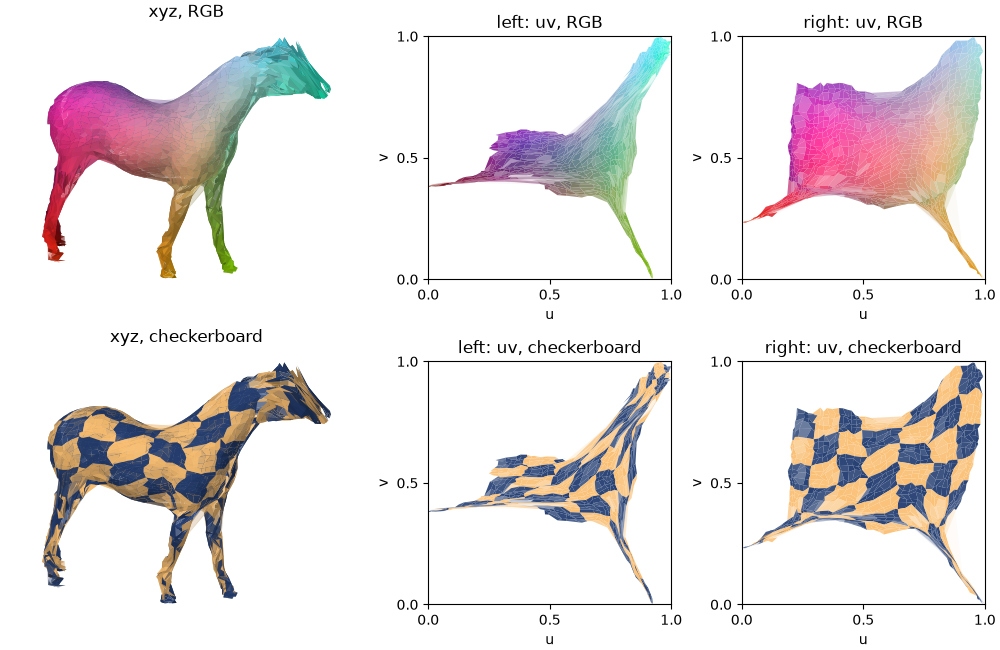
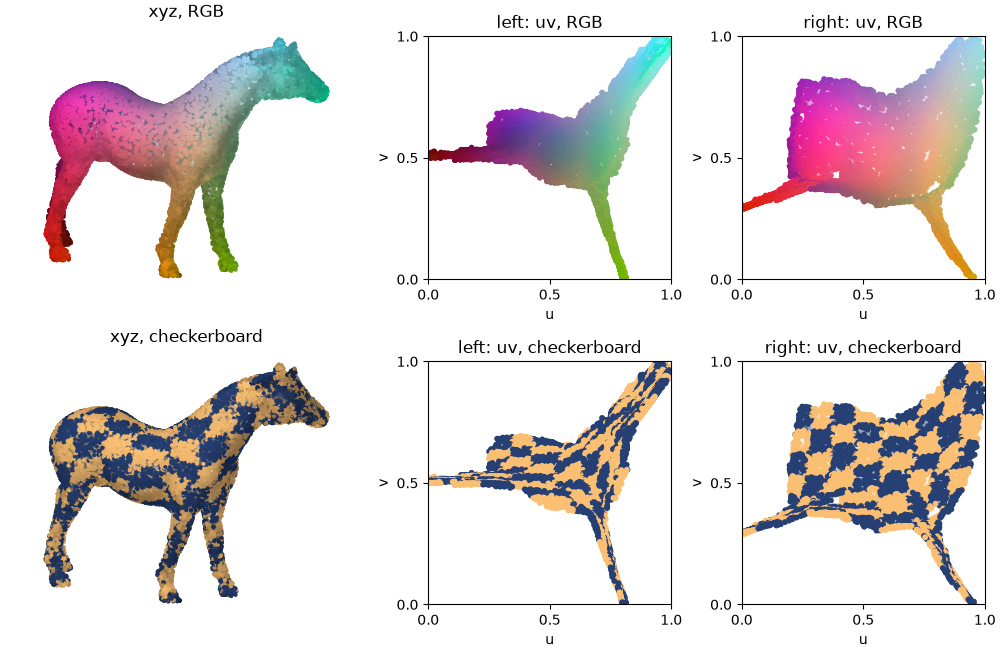
plot points AND quads

diff --git a/src/flatpoints/viz.py b/src/flatpoints/viz.py
@@ -3,10 +3,10 @@
 Two colourings: RGB = normalised x, y, z, and a checkerboard on the grid cells. A good
 flattening gives smooth colours and regular, undistorted squares.
 
-The surface is drawn as the quads between neighbouring cells; the 3D view is projected and
-sorted back to front (painter's algorithm), with a simple shading. A quad fades out the
-more likely the grid jumps there: the longer its longest side in (u, v) compared with the
-sides around it. Opaque for regular sides, ALPHA at JUMP times longer, ~0 beyond.
+Each cell is drawn as a point, over the quads between neighbouring cells in light colours.
+The 3D view is projected and sorted back to front (painter's algorithm, points and quads
+together), with a simple shading. A quad fades out the more likely the grid jumps there:
+the longer its longest side in (u, v) compared with the sides around it. Opaque for regular sides, ALPHA at JUMP times longer, ~0 beyond.
 """
 import matplotlib.pyplot as plt
 import numpy as np
@@ -14,8 +14,10 @@ from matplotlib.collections import PolyCollection
 from scipy.ndimage import gaussian_filter, label, median_filter
 
 CHECKER = np.array([[0.15, 0.25, 0.45], [0.98, 0.75, 0.45]])  # dark blue, light orange
-JUMP, ALPHA = 5, 0.5  # opacity ALPHA when a side is JUMP times the median side around it
-TAU = (JUMP - 1) / np.sqrt(-np.log(ALPHA))  # width of the fade, see `_alpha`
+JUMP, ALPHA_RATE = 3, 0.5  # opacity ALPHA when a side is JUMP times the median side around it
+ALPHA_MAX = 0.5
+TAU = (JUMP - 1) / np.sqrt(-np.log(ALPHA_RATE))  # width of the fade, see `_alpha`
+LIGHT = 1.0  # strength of the background quads in (u, v): 0 = white, 1 = full colour
 
 
 def plot(flat, squares=8):
@@ -34,16 +36,19 @@ def plot(flat, squares=8):
     proj = _camera(flat._lateral, flat._up)
     fig = plt.figure(figsize=(4 + 3 * k, 6.5), layout="constrained")
     grid = fig.add_gridspec(2, 1 + k, width_ratios=[1.5] + [1] * k)
+    size = (300 / m) ** 2  # marker area (pt^2): about half a grid step, the quads show between
     for row, name in enumerate(("RGB", "checkerboard")):
-        col = {f: _checker(m, squares)[:-1, :-1] if row else _quads(rgb[f]).mean(2)
-               for f in flat.faces}
+        col = {f: _checker(m, squares) if row else rgb[f] for f in flat.faces}  # per cell
         ax = fig.add_subplot(grid[row, 0], title=f"xyz, {name}")
         _draw3d(ax, [(xyz[f] @ proj.T, col[f], alpha[f]) for f in flat.faces])
         for c, f in enumerate(flat.faces, start=1):
             ax = fig.add_subplot(grid[row, c], aspect="equal", xlim=(0, 1), ylim=(0, 1),
                                  xticks=[0, .5, 1], yticks=[0, .5, 1], xlabel="u", ylabel="v",
                                  title=f"{f}: uv, {name}")
-            _add(ax, _quads(uv[f]).reshape(-1, 4, 2), _rgba(col[f], alpha[f]).reshape(-1, 4))
+            light = 1 - LIGHT * (1 - _quads(col[f]).mean(2))  # quads, washed towards white
+            _add(ax, _quads(uv[f]).reshape(-1, 4, 2), _rgba(light, alpha[f]).reshape(-1, 4))
+            ax.scatter(*uv[f].reshape(-1, 2).T, c=col[f].reshape(-1, 3), s=size,
+                       linewidths=0, rasterized=True)
     return fig
 
 
@@ -98,7 +103,7 @@ def _alpha(uv):
     r = np.maximum.reduce([d[:, :-1], d[:, 1:], r[:-1], r[1:]])
     areas = label(r > JUMP)[0]
     small = (areas > 0) & (np.bincount(areas.ravel())[areas] < 6)
-    return np.where(small, 1.0, np.exp(-(np.maximum(r - 1, 0) / TAU) ** 2))
+    return np.where(small, ALPHA_MAX, ALPHA_MAX*np.exp(-(np.maximum(r - 1, 0) / TAU) ** 2))
 
 
 def _camera(lateral, up, elev=15, azim=30):
@@ -116,15 +121,32 @@ def _camera(lateral, up, elev=15, azim=30):
 
 
 def _draw3d(ax, faces):
-    """Draw the faces [(projected xyz (n, n, 3), quad colours, `_alpha`)] back to front,
-    shaded."""
+    """Draw the faces [(projected xyz (n, n, 3), cell colours (n, n, 3), `_alpha`)], shaded:
+    the quads in light colours, and on each cell a small disc (an octagon facing the camera)
+    in full colour. Quads and discs are sorted together back to front; a disc is moved
+    one grid step towards the viewer, so it covers the quads of its own surface but not a
+    surface in front of it."""
     light = np.array([-0.3, 0.5, 1]) / np.linalg.norm([-0.3, 0.5, 1])
-    q = np.concatenate([_quads(g).reshape(-1, 4, 3) for g, _, _ in faces])
-    c = np.concatenate([_rgba(c, a).reshape(-1, 4) for _, c, a in faces])
-    n = np.cross(q[:, 2] - q[:, 0], q[:, 3] - q[:, 1])
-    c[:, :3] *= (0.55 + 0.45 * abs(n @ light) / np.maximum(np.linalg.norm(n, axis=1), 1e-12))[:, None]
-    order = np.argsort(q[:, :, 2].mean(1))  # far first
-    _add(ax, q[order, :, :2], c[order])
+    step = np.median(np.concatenate([np.linalg.norm(np.diff(g, axis=a), axis=-1).ravel()
+                                     for g, _, _ in faces for a in (0, 1)]))
+    t = np.linspace(0, 2 * np.pi, 8, endpoint=False)
+    disc = 0.4 * step * np.stack([np.cos(t), np.sin(t)], -1)  # diameter: half a step
+    polys, rgba, depth = [], [], []
+    for g, col, a in faces:
+        q = _quads(g)
+        n = np.cross(q[..., 2, :] - q[..., 0, :], q[..., 3, :] - q[..., 1, :])
+        shade = 0.55 + 0.45 * abs(n @ light) / np.maximum(np.linalg.norm(n, axis=-1), 1e-12)
+        pale = 1 - LIGHT * (1 - _quads(col).mean(2))
+        polys += list(q[..., :2].reshape(-1, 4, 2))
+        rgba.append(_rgba(pale * shade[..., None], a).reshape(-1, 4))
+        depth.append(q[..., 2].mean(-1).ravel())
+        s = np.pad(shade, 1, mode="edge")  # shade of a cell: mean of the quads around it
+        s = (s[:-1, :-1] + s[1:, :-1] + s[:-1, 1:] + s[1:, 1:]) / 4
+        polys += list(g[..., None, :2].reshape(-1, 1, 2) + disc)
+        rgba.append(_rgba(col * s[..., None], np.ones(s.shape)).reshape(-1, 4))
+        depth.append(g[..., 2].ravel() + step)
+    order = np.argsort(np.concatenate(depth), kind="stable")  # far first
+    _add(ax, [polys[i] for i in order], np.concatenate(rgba)[order])
     ax.autoscale_view()
     ax.set_aspect("equal")
     ax.set_axis_off()
